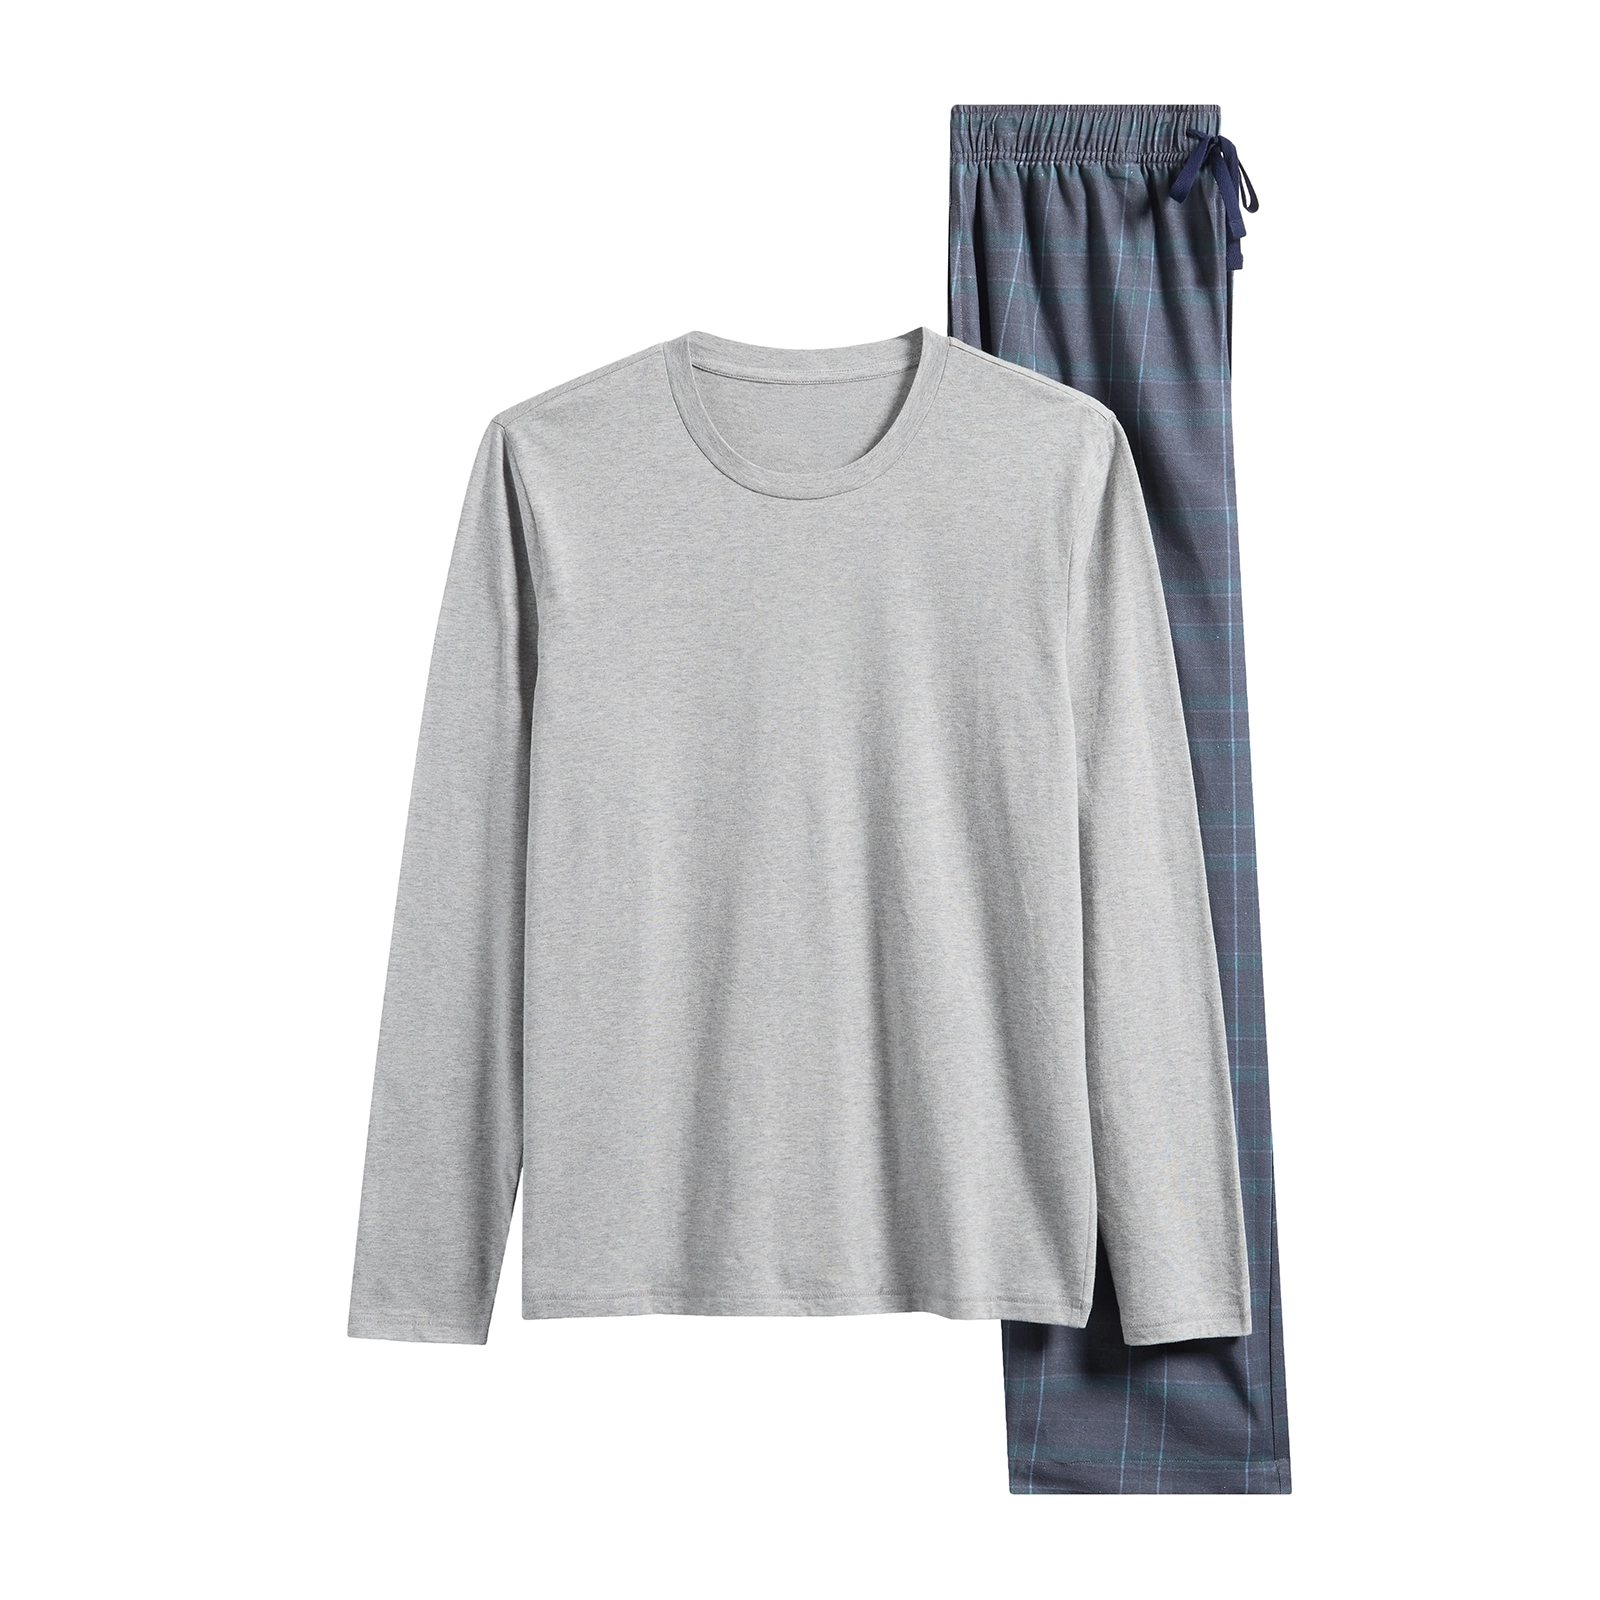
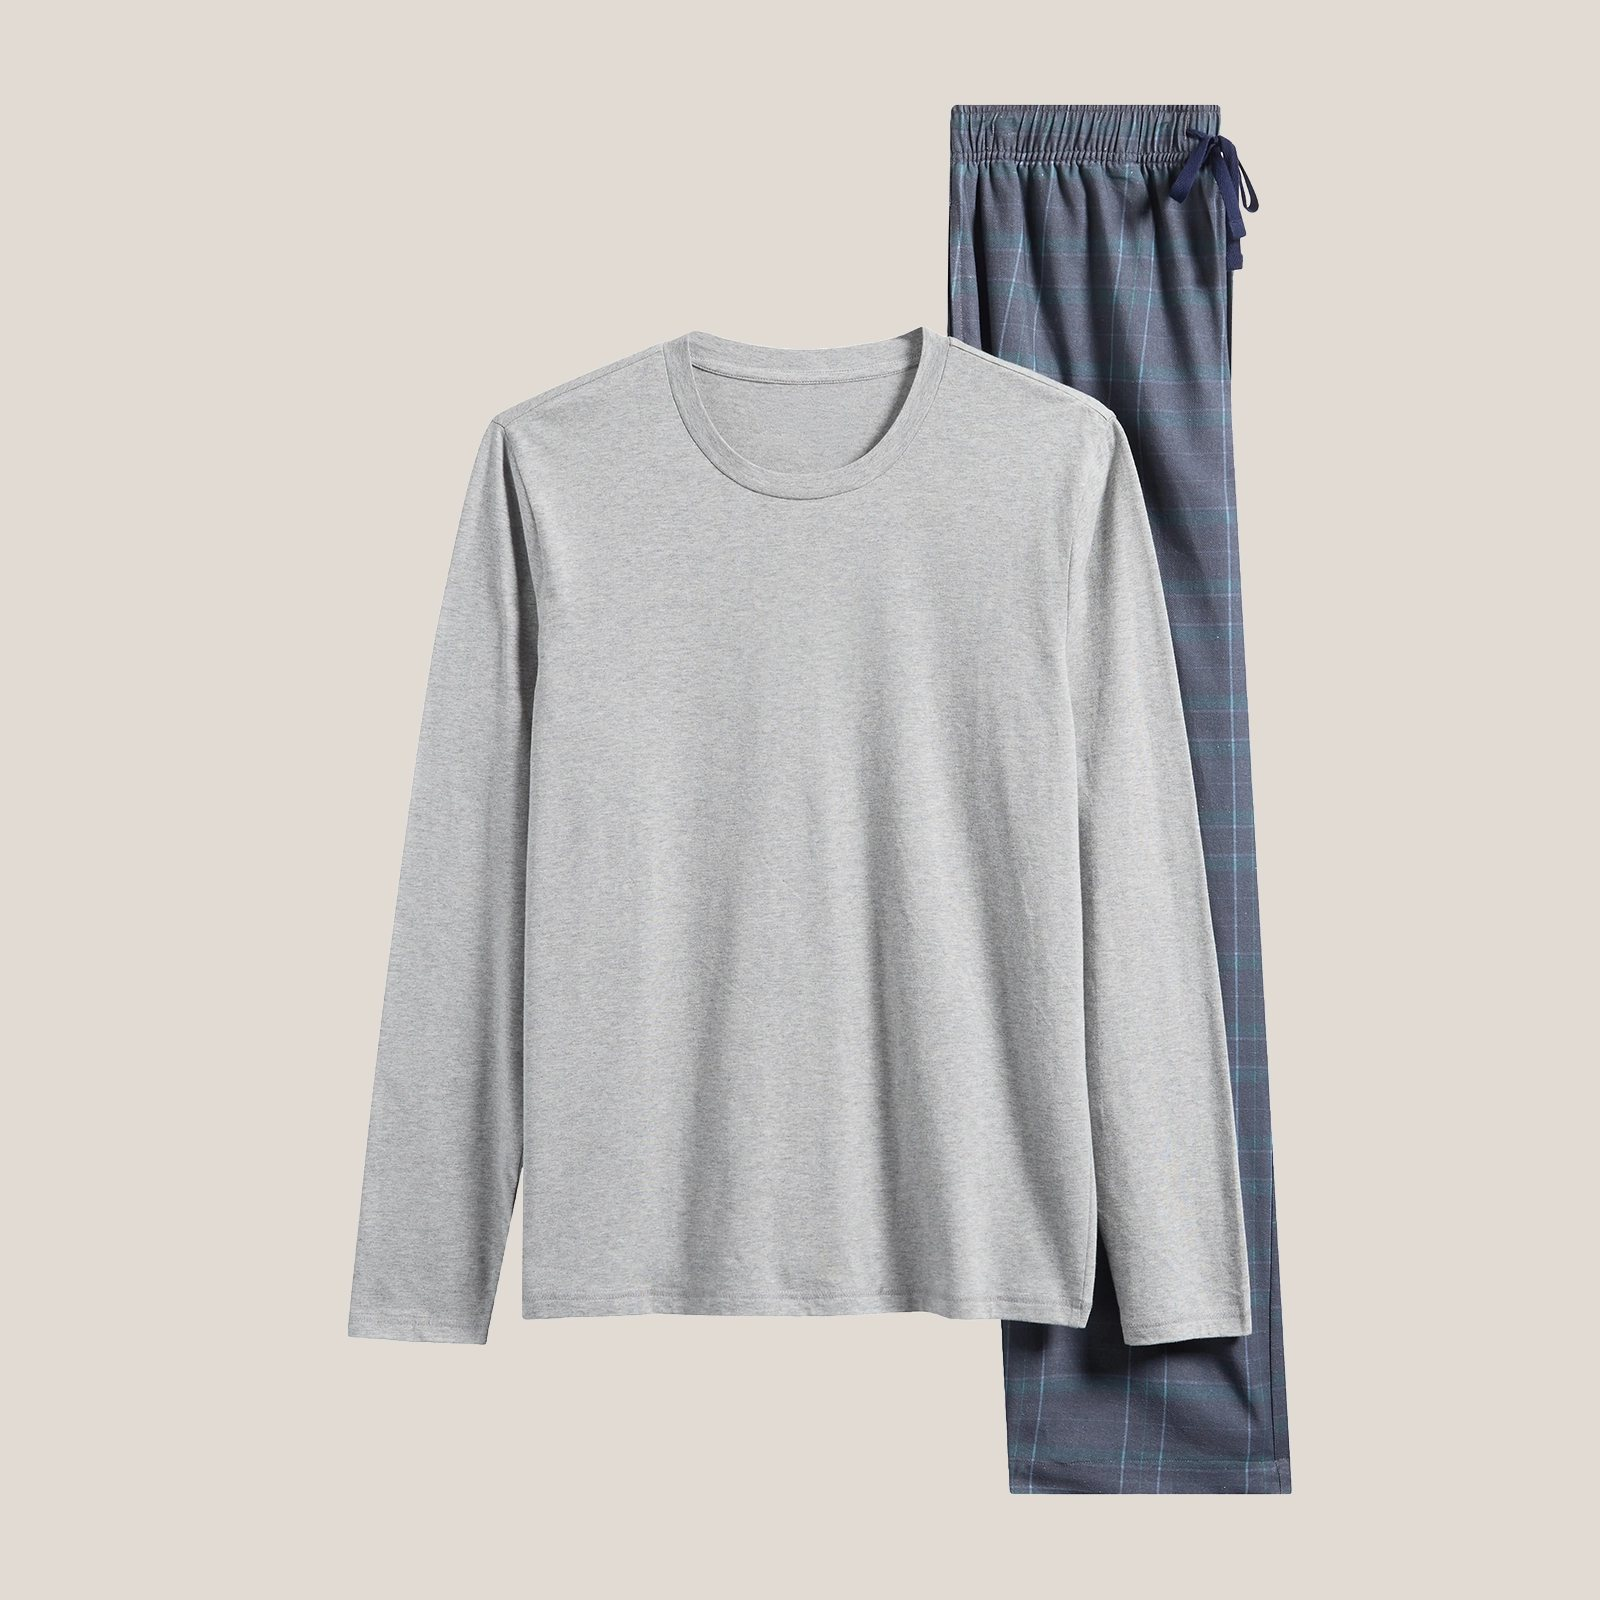
Cambiar la foto de Servicio de confección por la versión con fondo beige
img/confeccion.jpg pasa a la foto del pijama sobre fondo beige
(1600 × 1600 px, 222 KB). El recuadro usa ese mismo beige de fondo,
así la foto se ve completa y sin franjas en los costados.

Claude-Session: https://claude.ai/code/session_01L16UV1sXqxfVfE13mBo5hB

diff --git a/index.html b/index.html
@@ -385,7 +385,7 @@ main{min-height:60vh}
 .hero-ph::after{content:"";position:absolute;inset:0;background:radial-gradient(120% 70% at 0% 100%,rgba(20,16,12,.5) 0%,rgba(20,16,12,.18) 45%,rgba(20,16,12,0) 70%),linear-gradient(to bottom,rgba(20,16,12,.18) 0%,rgba(20,16,12,0) 18%)}
 .hero-ph .bc,.hero-ph .cap{z-index:1}
 /* Foto del bloque Servicio de confección del inicio (img/confeccion.jpg) */
-.split .sw-conf{background:#fff url(img/confeccion.jpg) center/contain no-repeat}
+.split .sw-conf{background:#E2DBD3 url(img/confeccion.jpg) center/contain no-repeat}
 .nhero .bc{position:absolute;left:clamp(16px,8%,160px);top:28px;color:#fff;font-size:12px;letter-spacing:.06em;text-transform:uppercase;text-shadow:0 1px 3px rgba(0,0,0,.4)}
 .nhero .cap{position:absolute;left:clamp(16px,8%,160px);bottom:28px;color:#fff;text-shadow:0 1px 8px rgba(0,0,0,.35)}
 .nhero .cap b{display:block;font-size:clamp(22px,2.4vw,32px);font-weight:400;letter-spacing:.12em}
